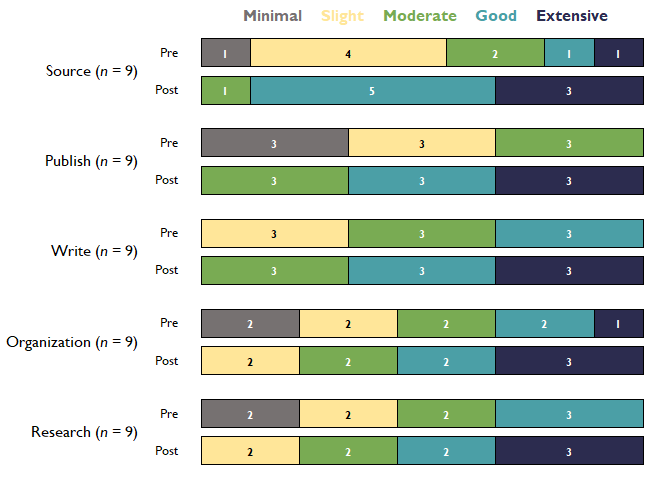
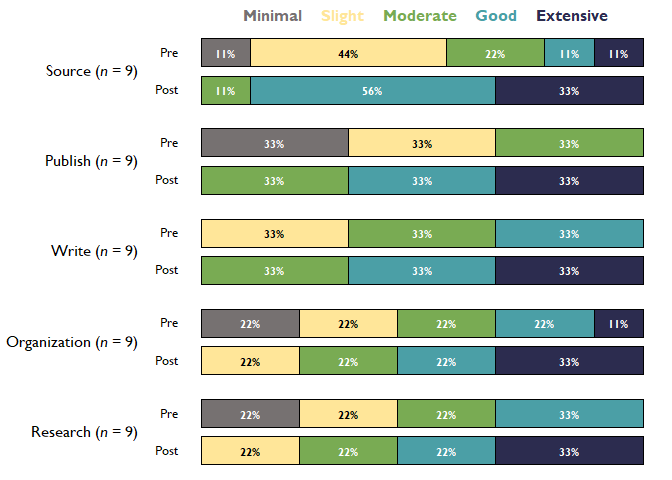
Updated readme and fixed stacked bar chart

diff --git a/README.md b/README.md
@@ -119,25 +119,40 @@ survey items that are categorical/factor variables, in 5 point scales,
 can be a single time point or pre-post, that will be inserted into a
 stacked bar chart with The Mark USA branding.
 
-**scale_labels** Required, a character vector of 5 levels to set the
-scale for the plot.
+**scale_labels** Required, a character vector of levels to set the scale
+for the plot, accepts a character vector of 3 to 7 items.
 
-**pre_post** Default is FALSE. If true, returns a pre-post stacked bar
-chart, arranged by question.
+**pre_post** Logical, default is FALSE. If true, returns a pre-post
+stacked bar chart, arranged by question, this requires data structured
+as pre-post. If FALSE, returns a stacked bar chart of a single time
+point.
 
-**percent_label** Default is TRUE. Labels the bars based on percentages.
-If FALSE, labels the bars with the number of answers per response.
+**overall_n** Logical, default is FALSE. If TRUE, returns an overall n
+for all questions that is in the upper left tag of the plot.
 
-**question_order** Takes in a character vector to sort the order of the
-questions. Default is NULL.
+**percent_label** Logical, default is TRUE. Labels the bars based on
+percentages. If FALSE, labels the bars with the number of answers per
+response.
 
-**question_labels** Takes in a character vector that will label the
-questions. Needs to be in same order as question_order. Default is NULL.
+**question_labels** Default is NULL. Takes in a named character vector
+to both supply labels the questions and sort the order of the questions.
+The named character vector should have the new labels as the “name” and
+the old labels as the “variable” sorted in the desired order of
+appearing in the plot, first item will appear at the top of the plot.
+See examples.
+
+**question_order**Logical, default is FALSE. If TRUE, the question order
+will be taken from the user supplied named character vector passed to
+question_labels, where the first item will be at the top of the plot and
+so on. If FALSE, the question order will be the questions with highest
+positive valenced response options on the top of the plot descending.
 
 **width** Input a value between 0.3 and 0.8 to set the thickness of the
 bars. Default is NULL.
 
-#### Single Time Point Data with Percentage labels Example for `stackedBarChart()`
+#### **Examples using** `stackedBarChart()`
+
+#### Single Time Point Data with Percentage labels Example for `stackedBarChart()`:
 
 ``` r
 # Single time point data:
@@ -146,22 +161,40 @@ items_single <- dplyr::tibble(
   Source = c(2, 2, 3, 5, 4, 3, 2, 1, 2),
   Publish = c(1, 1, 1, 2, 2, 2, 3, 3, 3),
   Write = c(2, 2, 2, 3, 3, 3, 4, 4, 4),
-  Research = c(1, 1, 2, 2, 3, 3, 4, 4, 4),
+  Research = c(1, 1, 2, 2, 3, 3, 4, 4, 4)
 )
-# scale_labels
+# scale_labels as a character vector, items in correct order:
 levels_min_ext <- c("Minimal", "Slight", "Moderate", "Good", "Extensive")
+# Question labels as a named vector with the naming structure like this: c("{new label}" = "{original variable name}"):
+question_labels <- c("Publish a lot of high quality papers" =  "Publish",
+                     "Write a lot of research papers" = "Write",
+                     "Research in a lab with faculty" = "Research",
+                     "Organization of a large research project" = "Organization",
+                     "Source work for a research paper" = "Source")
 # Recode the numeric to factor variables using the levels from levels_min_ext:
 cat_items_single <- TheMarkUSA::recodeCat(items_single, levels_min_ext)
 # Select the factor variables:
 cat_items_single <- cat_items_single %>% dplyr::select(dplyr::where(is.factor))
 # Pass the factor variables and the levels to 'stackedBarChart()':
 stacked_chart_single <- TheMarkUSA::stackedBarChart(
-  df = cat_items_single, scale_labels = levels_min_ext, width = 0.45
+   df = cat_items_single, pre_post = FALSE, scale_labels = levels_min_ext,
+   percent_label = TRUE, width = 0.6
 )
 stacked_chart_single
 ```
 
 <img src="man/figures/README-stackedBarChart_single-1.png" width="100%" />
+
+``` r
+# With new labels and order taken from question_labels argument:
+stacked_chart_single_labels <- TheMarkUSA::stackedBarChart(
+   df = cat_items_single, pre_post = FALSE, scale_labels = levels_min_ext,
+   question_labels = question_labels, question_order = TRUE, percent_label = TRUE, width = 0.6
+)
+stacked_chart_single_labels
+```
+
+<img src="man/figures/README-stackedBarChart_single-2.png" width="100%" />
 
 #### Pre-Post Data Example for `stackedBarChart()`
 
@@ -169,16 +202,26 @@ stacked_chart_single
 # Select only the categorical/factor vars from the df in the from the oriinal recodeCat() in the first chunk (cat_items_1) using select(tidyselect::where(is.factor):
 cat_items_plot <- cat_items_1 %>% dplyr::select(tidyselect::where(is.factor))
 
-# Run the function with the categorical items and the character vector of the factor levels:
+# Run the function with the factor items and the character vector of the factor levels:
 stacked_chart_pre_post <- TheMarkUSA::stackedBarChart(
-  df = cat_items_plot, scale_labels = levels_min_ext,
-  pre_post = TRUE, percent_label = FALSE
+   df = cat_items_plot, pre_post = TRUE, scale_labels = levels_min_ext,
+   percent_label = TRUE, width = NULL
 )
-
 stacked_chart_pre_post
 ```
 
 <img src="man/figures/README-stackedBarChart_pre_post-1.png" width="100%" />
+
+``` r
+# With new labels and order taken from question_labels argument:
+stacked_chart_pre_post_labels <- TheMarkUSA::stackedBarChart(
+   df = cat_items_plot, pre_post = TRUE, scale_labels = levels_min_ext,
+   question_labels = question_labels, question_order = TRUE, percent_label = TRUE, width = NULL
+)
+stacked_chart_pre_post_labels
+```
+
+<img src="man/figures/README-stackedBarChart_pre_post-2.png" width="100%" />
 
 ### `divBarChart()`
 
